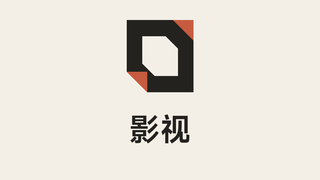
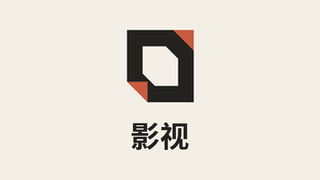
Update launcher previews with centered verified artwork

Changed region(s): [[0.375, 0.1111, 0.625, 0.5833], [0.4062, 0.6389, 0.5938, 0.8333]]

diff --git a/docs/testing/reports/2026-11-18-launcher-banner/README.md b/docs/testing/reports/2026-11-18-launcher-banner/README.md
@@ -1,18 +1,18 @@
 # TV 桌面横幅验证
 
-关联 [Discussion #105 的灵动桌面卡片反馈](https://github.com/wobuhui666/TV/discussions/105#discussioncomment-19704383)。测试提交 `e8ae2007fd57f3abaea5cdea52c32377366480f2`，后续仅补充本报告和索引。计数见 [verification.json](verification.json)。
+关联 [Discussion #105 的灵动桌面卡片反馈](https://github.com/wobuhui666/TV/discussions/105#discussioncomment-19704383)。接口与构建初测提交 `e8ae2007fd57f3abaea5cdea52c32377366480f2`。图片对齐修正与最新接口重测提交 `1fc0a40971292aed3274d0d9b4ffcff94b588fb7`；修正统一字体和可见字形位置，后续仅更新本报告。计数见 [verification.json](verification.json)。
 
 TV 版原来引用仅 API26 以上存在的 mipmap 横幅，已有 drawable 图片属于另一资源类型，不能给 Android 7.x 回退。新横幅使用标准 320×180 不透明位图，保留品牌标志并包含 TV／影视／影視；应用与 HomeActivity 显式引用同一横幅。普通方形图标和启动入口保持原配置。
 
 | 检查 | 结果 |
 | --- | --- |
-| [API24/API34 安装后接口验证](https://github.com/wobuhui666/TV/actions/runs/44323417351) | 各 2 项测试全部通过，无失败或跳过 |
+| [API24/API34 对齐修正后接口验证](https://github.com/wobuhui666/TV/actions/runs/44331073497) | 各 2 项测试全部通过，无失败或跳过 |
 | [TV/mobile 构建与回归](https://github.com/wobuhui666/TV/actions/runs/44323423560) | app 1190、catvod 244、QuickJS 28、WASM 19，共 1481 项单测通过，零失败／错误／跳过 |
 | lint 差分 | 相对 `854727a4a4255413e9a598bda37471f3177004f5` 零新增问题；Error 108→108，Warning 388→385 |
 
 使用 GitHub Actions、JDK21、Python3.10、SDK/build-tools37.0.0 和固定 Media3 提交。命令为 `:app:assembleLeanbackArm64_v8aPreview`、`:app:assembleLeanbackArm64_v8aPreviewAndroidTest`、`:app:testLeanbackArm64_v8aPreviewUnitTest -PtvPreview`；构建验证另执行 TV/mobile Debug 与 AndroidTest 构建、应用／共享模块单测及 lint 差分。未在低内存工作机运行 Gradle。
 
-安装后的 PackageManager 查询普通 LAUNCHER 与 LEANBACK_LAUNCHER，均找到唯一 HomeActivity；应用和活动提供同一非零 banner。`getApplicationBanner`、`ActivityInfo.loadBanner` 和 `getActivityBanner` 返回完整 16:9 位图。渲染检查包含不透明背景、可见标志和名称、三个语言的文字不同且标志一致。API24/API34 六张输出图逐像素一致，分别与源 PNG 匹配。
+安装后的 PackageManager 查询普通 LAUNCHER 与 LEANBACK_LAUNCHER，均找到唯一 HomeActivity；应用和活动提供同一非零 banner。`getApplicationBanner`、`ActivityInfo.loadBanner` 和 `getActivityBanner` 返回完整 16:9 位图。渲染检查包含不透明背景、可见标志和名称、三个语言的文字不同且标志一致。API24/API34 六张输出图逐像素一致，分别与源 PNG 匹配。三版标志和文字组合的可见纵向中心均为 90px；标志横向中心 160.5px，名称横向中心 159.5–160px，在卡片中心 160px 的 1px 容差内。
 
 | 简体 | 繁体 | 英文 |
 | --- | --- | --- |
